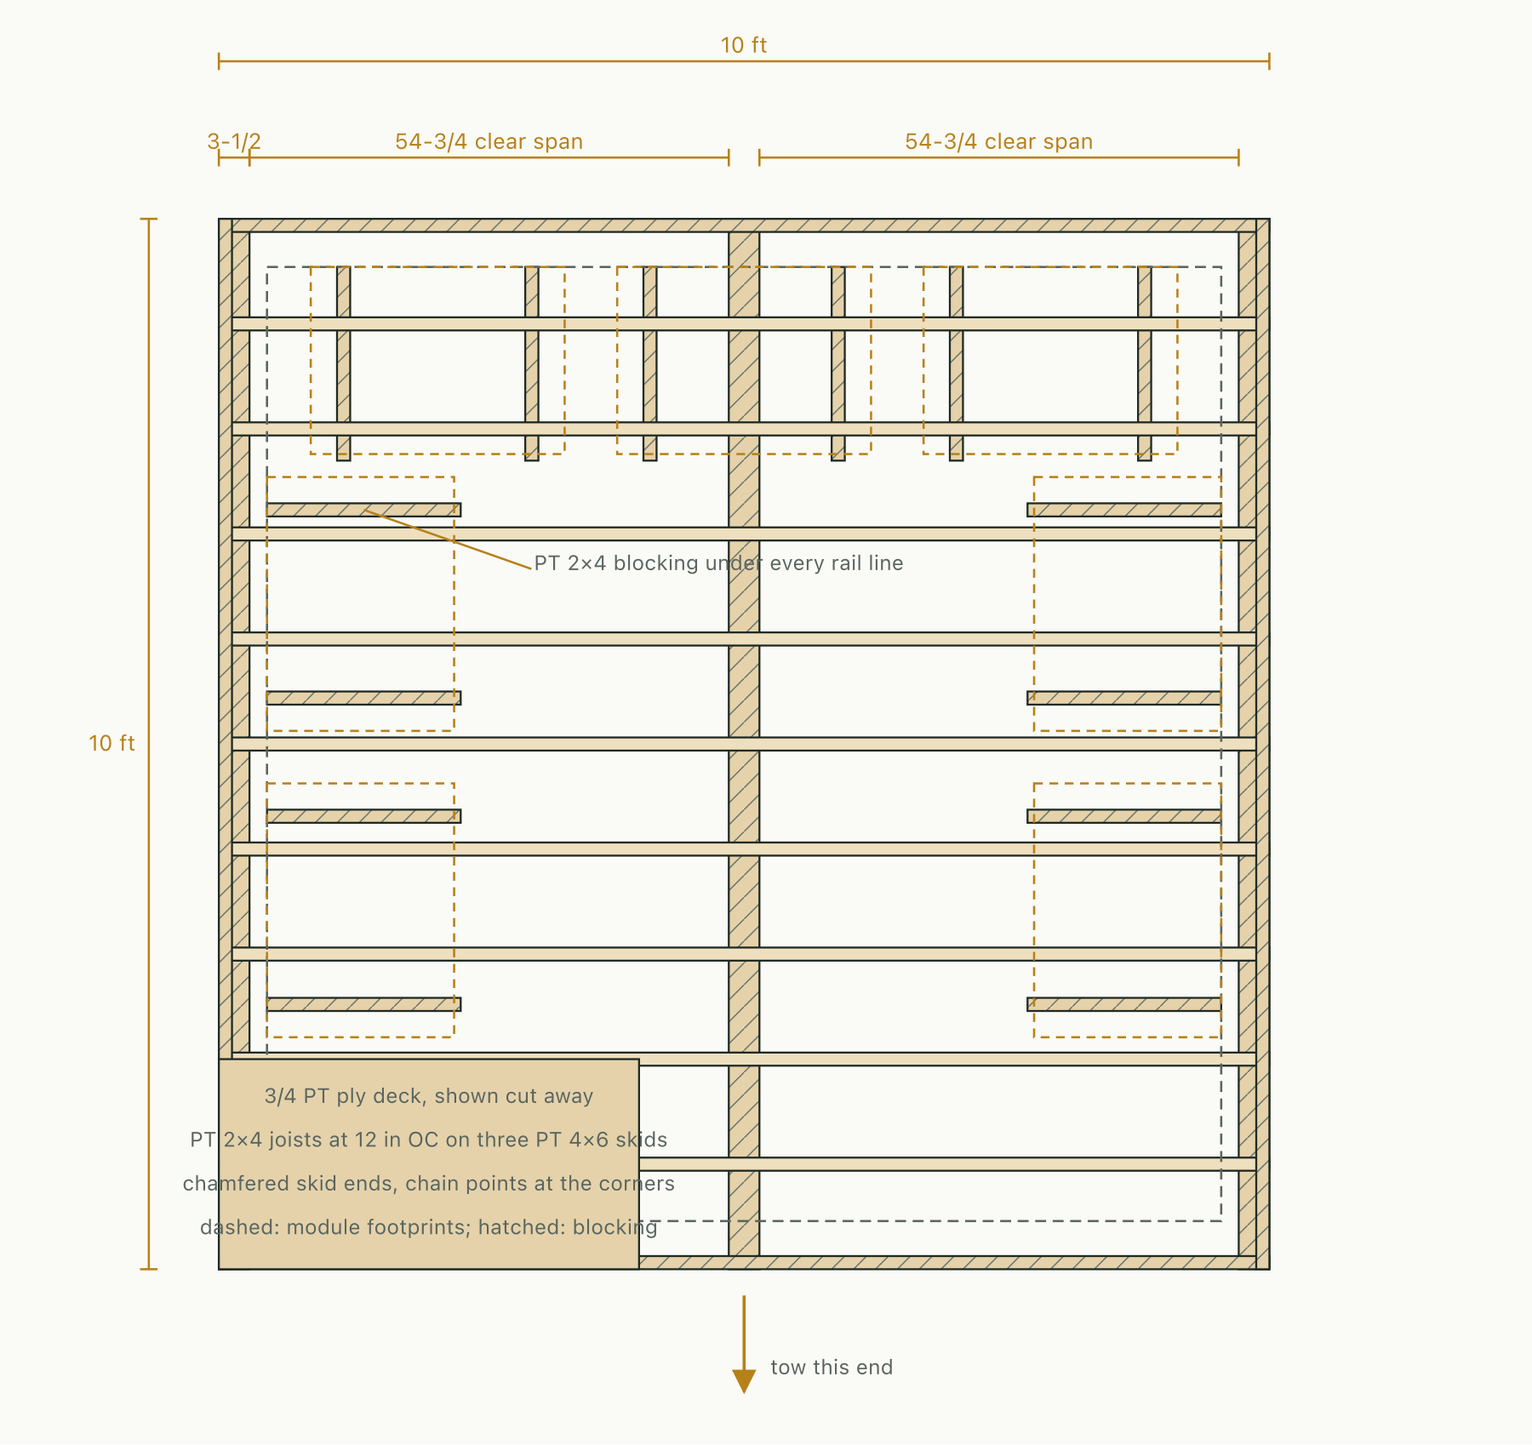
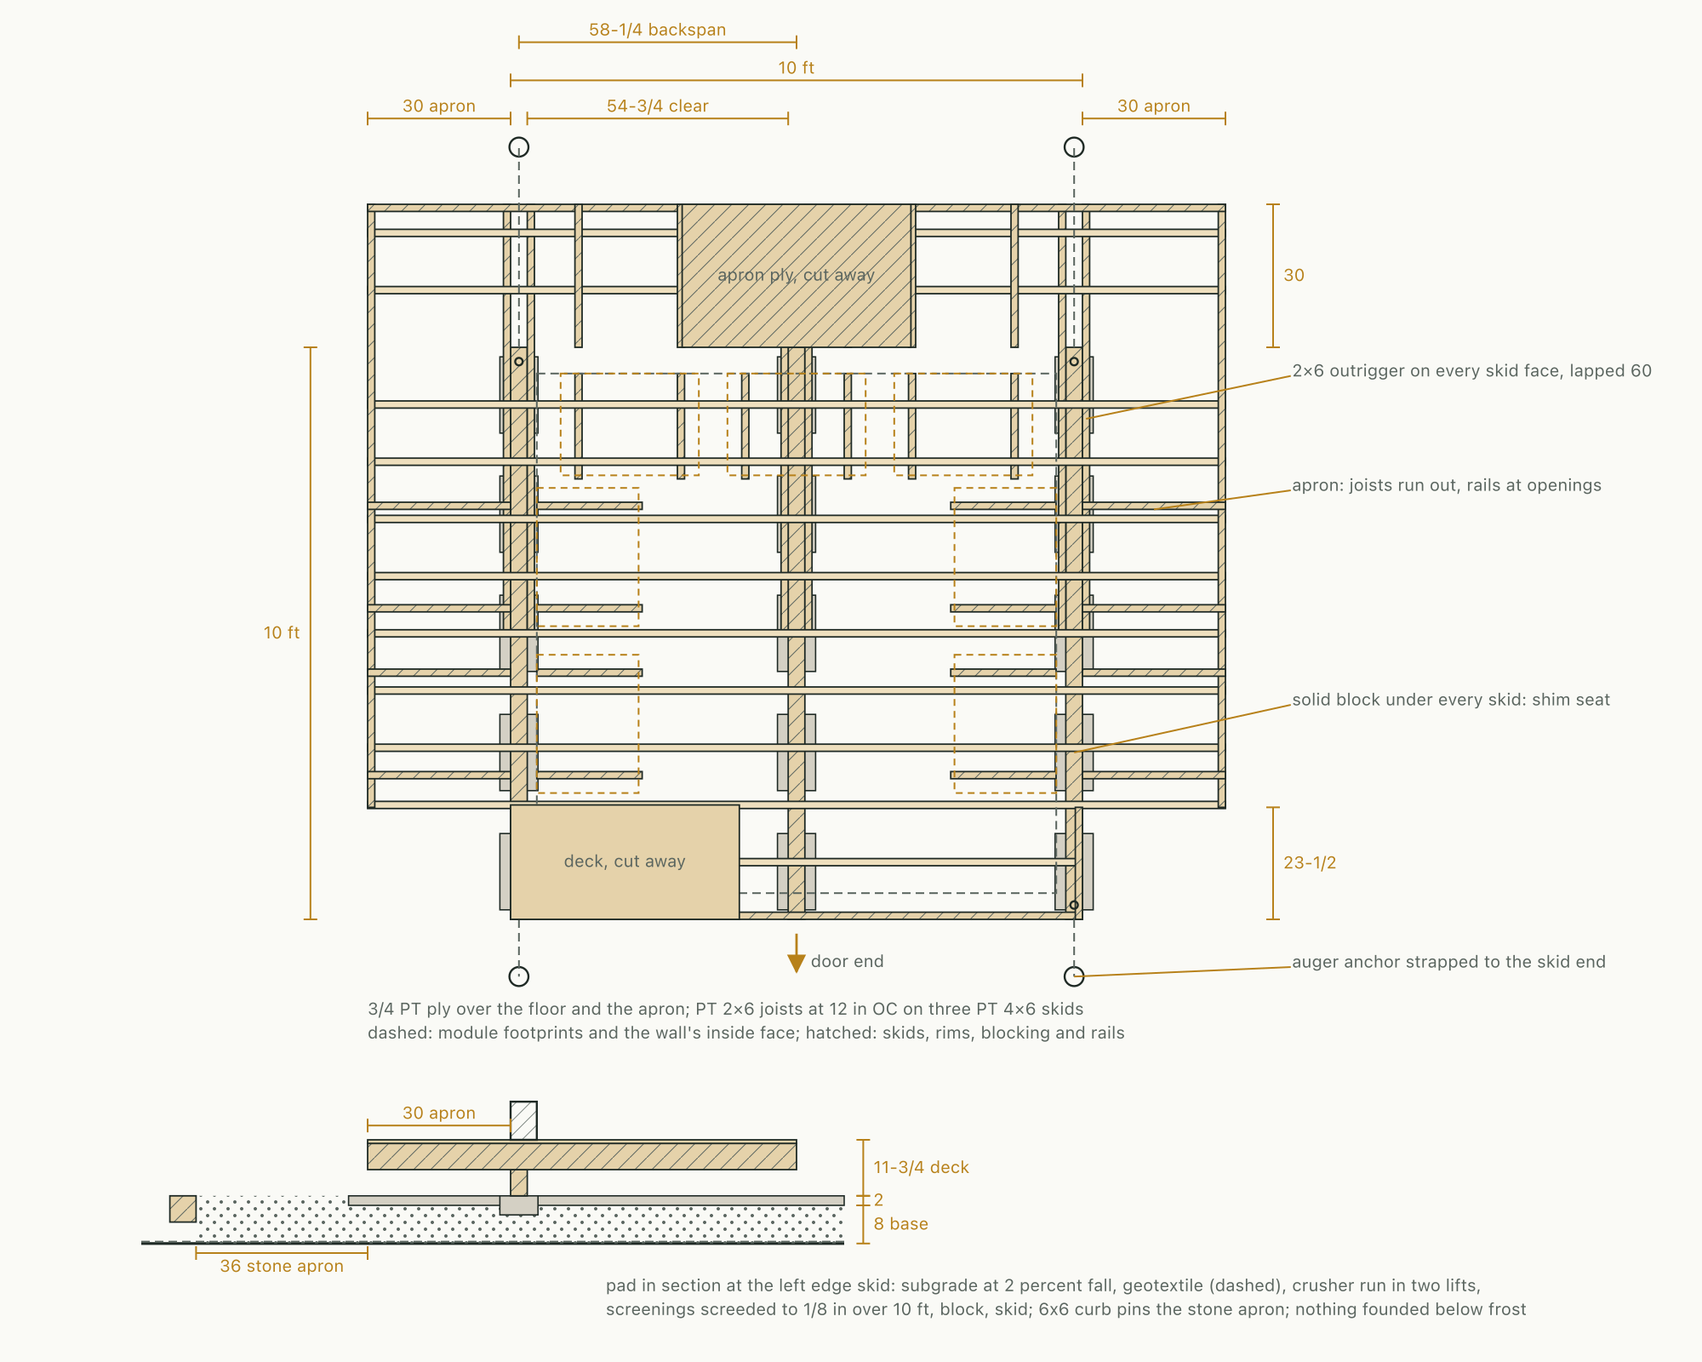
Revision 13, September 23, 2026: 20 sheets
Generated from the private source by publish.py.

Changed region(s): [[0.0933, 0.0, 0.9644, 0.9688], [0.9022, 0.5, 0.9333, 0.5312], [0.0622, 0.5, 0.0933, 0.5312]]

diff --git a/SHEETS.md b/SHEETS.md
@@ -6,19 +6,19 @@ Generated by build.py from beehut/sheets/; do not edit. Dimensions in inches, he
 
 ![Plan](png/01-plan.png)
 
-Skid-built 120 in square, 5-1/2 in walls, 109 in clear inside. Seven identical modules on a 35 in pitch: two at the rear of each side bench (the rear one ending at the back bench, 6 in between them) and three centred on the back wall, 6 in apart and 5 in from each corner. Each pulls out through a 30-1/2 in rough opening onto a 34-1/2 x 30 in pad; entrances at the rear edge of every face. A 21 in quiet bay at the front of each side bench sits over the 12 in intake, 4 in from the front corner. Door 32 in leaf in a 34 in opening, clerestory above it, 24 in cupola at the centre.
+Skid-built 120 in square, 5-1/2 in walls, 109 in clear inside. Seven identical modules on a 35 in pitch: two at the rear of each side bench (the rear one ending at the back bench, 6 in between them) and three centred on the back wall, 6 in apart and 5 in from each corner. Each pulls out through a 30-1/2 in rough opening onto the 30 in apron; entrances at the rear edge of every face. A 21 in quiet bay at the front of each side bench sits over the 12 in intake, 4 in from the front corner. Door 32 in leaf in a 34 in opening, 24 in glazed cupola over the centre of the aisle.
 
 ## 2. Section A-A
 
 ![Section A-A](png/02-section_aa.png)
 
-Across a side bench through a module, looking along the wall. The module (21-3/8 deep, 12-5/8 tall with its sled and double screen board) rides on two PT 2×4 rails with UHMW tops, 3-3/4 above the deck, and passes through the hatch cartridge in a 30-1/2 × 14-1/8 rough opening whose sill is 3 above the deck. The bench is a separate structure: a 1×2 ledger on the wall above the opening and a louvered 2×4 front rail carry lift-off ladder panels, 2-1/4 in clear over the board, bench top 20-1/8 above the deck. Pull the module 26-7/8 in onto the pad outside for an inspection; feeding is with the panel off, since no jar fits under it. Deck 9-3/4 above grade on PT 4×6 skids.
+Across a side bench through a module, looking along the wall. The module (21-3/8 deep, 12-5/8 tall with its sled and double screen board) rides on two PT 2×4 rails with UHMW tops, 3-3/4 above the deck, and passes through the hatch cartridge in a 30-1/2 × 14-1/8 rough opening whose sill is 3 above the deck. The bench is a separate structure: a 1×2 ledger on the wall above the opening and a louvered 2×4 front rail carry lift-off ladder panels, 2-1/4 in clear over the board, bench top 20-1/8 above the deck. Pull the module 26-7/8 in onto the apron outside for an inspection; feeding is with the panel off, since no jar fits under it. Deck 11-3/4 above grade on PT 4×6 skids.
 
 ## 3. Stack detail
 
 ![Stack detail](png/03-stack_detail.png)
 
-The top corner of a module at the room end, from Section A-A at large scale. The frame ear (11/16 × 3/8) sits on the rabbet ledge (3/8 wide) in the 1-1/2 box wall, leaving 3/8 in bee space between the top bars and the lower #8 screen. The double screen board is a 1×2 flat frame with #8 on both faces and 3/4 in air between: bees own the lower screen and nothing reaches the upper one. The bench panel clears the board by 2-1/4, room for the flap leaf and 1-1/2 in winter foam. In this cut across the bench you see one 1-1/2 in slat lengthwise on its two panel rails, the flat stringer under it, and the louvered 2×4 front rail.
+The top corner of a module at the room end, from Section A-A at large scale. The frame ear (11/16 × 3/8) sits on the rabbet ledge (3/8 wide) in the 1-1/2 box wall, leaving 3/8 in bee space between the top bars and the lower #8 screen. The double screen board is a 1×2 flat frame with #8 on both faces and 3/4 in air between: bees own the lower screen and nothing reaches the upper one. The bench panel clears the board by 2-1/4, room for 1 in winter foam under the stringer. In this cut across the bench you see one 1-1/2 in slat lengthwise on its two panel rails, the flat stringer under it, and the louvered 2×4 front rail.
 
 ## 4. Section B-B
 
@@ -36,31 +36,31 @@ Along the back wall, cut through the three back modules and seen from the room. 
 
 ![Pull-out](png/06-pull_out.png)
 
-Plan detail of one side module at home and pulled out. The 29 in box sits in a 30-1/2 in rough opening lined with a 1/2 in ply sleeve, 1/4 in clear each side, its face at the room end of the sleeve so the entrance sits in a 4-3/4 in porch. Two rails inside run from the wall face to a 3/4 in stop block, 3 in from each end of the box; the pad outside, 30 in out from the siding, has its own pair. Neither passes through the wall: the sled bridges the 5-1/2 in pocket. Travel 26-7/8 in puts the box clear of the siding.
+Plan detail of one side module at home and pulled out. The 29 in box sits in a 30-1/2 in rough opening lined with a 1/2 in ply sleeve, 1/4 in clear each side, its face at the room end of the sleeve so the entrance sits in a 4-3/4 in porch. Two rails inside run from the wall face to a 3/4 in stop block, 3 in from each end of the box; the apron outside, 30 in out from the siding, has its own pair. Neither passes through the wall: the sled bridges the 5-1/2 in pocket. Travel 26-7/8 in puts the box clear of the siding.
 
 ## 7. Side wall
 
 ![Side wall](png/07-side_wall.png)
 
-Left side wall from outside, back corner at the left. Two module openings, RO 30-1/2 × 14-1/8, sill 3 above the deck: the rear one centred 76 from the front exterior face (its box ends at the back bench), the front one 35 nearer the front, leaving the 21 in quiet bay. Intake vent 12 × 6, 4 from the front interior corner, sill 2 above the deck. Pads 34-1/2 wide at deck height under each opening.
+Left side wall from outside, back corner at the left. Two module openings, RO 30-1/2 × 14-1/8, sill 3 above the deck: the rear one centred 76 from the front exterior face (its box ends at the back bench), the front one 35 nearer the front, leaving the 21 in quiet bay. Intake vent 12 × 6, 4 from the front interior corner, sill 3 above the deck. The apron runs along the wall at deck height from 23-1/2 in behind the front face, rails under each opening.
 
 ## 8. Back wall
 
 ![Back wall](png/08-back_wall.png)
 
-Back wall from outside: three module openings, RO 30-1/2 × 14-1/8, centred on the wall at 35 pitch, so 6 between boxes and 5 from each box to the interior corner. Sill 3 above the deck, pads 34-1/2 wide at deck height under each. Intake vents are on the side walls.
+Back wall from outside: three module openings, RO 30-1/2 × 14-1/8, centred on the wall at 35 pitch, so 6 between boxes and 5 from each box to the interior corner. Sill 3 above the deck, the apron at deck height under all three. Intake vents are on the side walls.
 
 ## 9. Door wall
 
 ![Door wall](png/09-door_wall.png)
 
-Front wall from outside. Door RO 34 × 82-1/2 centred, 32 leaf inside it under a 1-1/2 flat head; two risers of 4-7/8 up to the deck. Clerestory band 104 wide (8 in returns) from 85-3/4 to 95-3/4 above the deck, three frosted awning sashes, under a doubled 2×10 header (9-1/4) directly below the double top plate. Cone bee escape at the right end.
+Front wall from outside, the only wall with no hive. Door RO 34 × 82-1/2 centred, 32 leaf inside 1 jambs under a 1-1/2 flat head and a doubled 2×6 header; two risers of 5-7/8 up to the deck with a handrail each side. No window: the glazed cupola over the aisle is the room's only daylight and where a stray bee leaves. The level soffit is 88 above the deck, 5-1/2 over the door.
 
-## 10. Skids and floor
+## 10. Skids, floor and apron
 
-![Skids and floor](png/10-skids_floor.png)
+![Skids, floor and apron](png/10-skids_floor.png)
 
-Three PT 4×6 skids on edge, 3-1/2 wide and 5-1/2 tall, run front to back: one at each edge and one centred. PT 2×4 joists at 12 in on centre run across them, clear span 54-3/4 between skids, with a PT 2×4 rim all round; 3/4 in PT plywood deck. PT 2×4 blocking under every plinth rail line: two per module, 22-1/8 long from the wall face, 3 in from each end of the box.
+Three PT 4×6 skids on edge, 3-1/2 wide and 5-1/2 tall, run front to back on a compacted stone pad (8 in of crusher run in two lifts, 2 in of screenings), each bedded on 5 solid blocks set flush in the screenings as shim seats. PT 2×6 joists at 12 in on centre run across the skids, clear span 54-3/4, and from 23-1/2 in behind the front face to the back they run on 30 in past the siding on both sides as the apron, backspan 58-1/4 to the centre skid. Across the back, 2×6 outriggers bolted to both faces of every skid and lapped 60 carry the same joists 30 out. 3/4 in PT ply over all of it: the apron is the floor continued, rides with the building through a frost cycle, and its rails, one pair under every opening at 3-3/4, are set to the cartridge gauge. Three joists under a module carry 210 lb of module and a 250 lb person at the tip at about 610 psi. PT 2×4 blocking under every inside rail line. Chain points at the four edge-skid ends, an auger anchor strapped to each 12 in beyond the end, unclipped only to move the building; a 36 in stone apron at grade beyond the deck apron is where the beekeeper stands.
 
 ## 11. Frame
 
@@ -72,7 +72,7 @@ Standard Langstroth deep, off the shelf: 19 in top bar, 9-1/8 deep, 17-5/8 outsi
 
 ![Hive floor](png/12-hive_floor.png)
 
-The module floor: a 1 in cavity formed by 1 in strips under the box walls on the 3/4 ply sled, #8 cloth stapled on top of the strips, so the floor is 1-1/8 (1 plus cloth and staples). A sticky board slides in through a slot in the face at the cavity, behind a flap. The slot entrance, 8 x 3/8, sits at the floor top at the rear edge under the 1 disc, 4 from the rear end. Two rails 3 from each end carry the sled to a 3/4 stop block; 1/2 bee space under the bottom bars.
+The module floor: a 1 in cavity formed by 1 in strips under the box walls on the 3/4 ply sled, #8 cloth stapled on top of the strips, so the floor is 1-1/8 (1 plus cloth and staples). A sticky board slides in through a slot in the face at the cavity, behind a cover. The slot entrance, 8 x 3/8, sits at the floor top at the rear edge under the 1 disc, 4 from the rear end. Two rails 3 from each end carry the sled to a 3/4 stop block; 1/2 bee space under the bottom bars.
 
 ## 13. Viewing port
 
@@ -80,26 +80,44 @@ The module floor: a 1 in cavity formed by 1 in strips under the box walls on the
 
 Section A-A through the one module with a port: a 16 × 7 acrylic pane let into the box's inner end wall, centred on the frame depth, and a hinged cedar shutter in the louvered bench front in line with it. A red LED strip in the dark cavity between the box end and the louvers lights the frame ends; the shutter stays closed unless a guest is looking. The pane centre is 10-11/16 above the deck: kneel, or a low stool.
 
-## 14. Bench panel and frame
+## 14. Bench panel
 
-![Bench panel and frame](png/14-bench_panel.png)
+![Bench panel](png/14-bench_panel.png)
 
-One lift-off ladder panel, 27 x 24 in: two 1x2 rails on edge running along the wall, 18 slats of 1x2 cedar on edge across the bench at 1-1/2 in pitch (3/4 in gaps, 3/8 in from each end), one 1x2 stringer flat under them at mid-span. The panel drops onto a 1x2 ledger on the wall above every opening and the 2x4 front rail, its top at 20-1/8 in; nothing rests on the module, which slides under it with 2-1/4 in clear over the board. 10 panels: three per side bench, four across the back.
+One lift-off ladder panel per module, 34-3/4 x 24 in on the 35 in module pitch, so every joint falls over the framing between openings and lifting a panel uncovers one board: two 1x2 rails on edge along the wall, 23 slats of 1x2 cedar on edge across the bench at 1-1/2 in pitch (3/4 in gaps, 1/2 in from each end), one 1x2 stringer flat under them at mid-span, screwed to every slat. A 14-3/4 in bay panel (10 slats) closes the front of each side bench; a fixed 2 in cedar strip each end of the back bench. The panel drops onto the 1x2 ledger on the wall above every opening and the 2x4 front rail, located by a dowel pin at each end, top at 20-1/8 in; nothing rests on the module, which slides under it with 2-1/4 in clear over the board. 7 module panels and 2 bay panels, clear vertical-grain cedar, each tested to 200 lb at the centre without visible set.
 
 ## 15. Double screen board
 
 ![Double screen board](png/15-double_screen_board.png)
 
-Double screen board, 29 x 21-3/8, one per module: a 1x2 flat frame 3/4 thick with a centre rib, #8 stainless on both faces, so the frame thickness is the air gap. Feeder port: a 1-1/2 hole in a 4 x 4 solid patch centred along the board, 5 from the room edge, with a captive plug when no jar is on. Four screws, 3 in from the corners.
+Double screen board, 29 x 21-3/8, one per module: a 1x2 flat frame 3/4 thick (1-1/2 wide) with a centre rib, #8 stainless on both faces, so the frame thickness is the air gap. Two ports, each a 1-1/2 hole in a 4 x 4 solid patch: the jar port centred along the board, 5 from the room edge, with a sliding cover that is closed unless a jar is on; the feeder port 4 from the follower end, over the frame feeder, for a funnel. Two cam latches hold the board to the box; the four screws, 3 along each end rail and 3/4 in from the edge, are the winter fixing.
 
 ## 16. Exploded assembly
 
 ![Exploded assembly](png/16-exploded_assembly.png)
 
-The building as units. Field units stack in order on the one below: skid base (9-3/4 to the deck), four wall panels (120 side walls through, 109 front and back between them, 108 tall) framed flat on that deck, a 4:12 roof kit rising 28 above the fascia, the 24 in cupola set whole. Shop units under 60 lb except the door, built while the lumber acclimates and fitted to gauges before any wall stands.
+The building as units. Field units stack in order on the one below: skid base and apron (11-3/4 to the deck), four wall panels (117-1/2 side walls through, 110-1/2 front and back between them, 96 tall) framed flat on that deck, a 4:12 roof kit rising 28 above the fascia, the 24 in cupola set whole. Shop units under 60 lb except the door, built while the lumber acclimates and fitted to gauges before any wall stands.
 
 ## 17. Hatch cartridge
 
 ![Hatch cartridge](png/17-hatch_cartridge.png)
 
-Section A-A at the wall, large scale. The cartridge is a 1/2 in plywood sleeve the depth of the wall (5-1/2), with the cedar trim frame outside (3/4 proud of the siding), the aluminium pan on its sill falling outward, brush seals at the room end filling the 1/4 in clearance, and the gravity flap: a 1/2 in plywood leaf on a piano hinge under the bench ledger. It slides into a bare 30-1/2 × 14-1/8 rough opening from outside and is screwed through the jambs; the sill sits 3 above the deck so the sleeve sill top is flush with the rail tops. There are no interior stops: the module pushes the flap up and it lies on the board; when the module leaves, the flap drops to the runner and the room stays bee-tight. Build eight: seven to fit and one kept as the gauge for framing the openings.
+Section A-A at the wall, large scale. The cartridge is a 1/2 in plywood sleeve the depth of the wall (5-1/2), with the cedar trim frame outside (3/4 proud of the siding, 2 wide, its inner edge bevelled 1/2 as the lead-in), a sloped cedar sill with a drip kerf on the sleeve sill, a foam gasket round the face where it meets the porch, and brush seals at the room end filling the 1/4 in clearance. It slides into a bare 30-1/2 × 14-1/8 rough opening from outside and is screwed through the jambs; the sill sits 3 above the deck so the sleeve sill top is flush with the rail tops, and the rails are set to it with the gauge after the cartridge is in. No flap and no stops: when a module is out, one loose 3/4 in blank on a handle (dashed), the size of the sleeve, stands in against the seals from outside and the room stays bee-tight. Build eight cartridges, seven to fit and one kept as the gauge, and one blank.
+
+## 18. Roof and cupola
+
+![Roof and cupola](png/18-roof_cupola.png)
+
+Section across the hut through the apex. 2×6 jack rafters at 24 in on 2×8 hips, 4:12, bearing on the double top plate at 96 with hurricane ties at every rafter and a strap across each corner, because a pyramid has no ceiling ties and the plates are its tension ring. Level soffit at 88, 24 in eave, 5 in gutter on every fascia. R-23 mineral wool fills the rafters and 3/4 in T&G closes the ceiling under them, so nothing over a sleeper's head is bare metal and a cold roof does not sweat on seven colonies in February. At the apex, 116 above the deck, the rafters are headed off round a 24 in square curb standing 6 in above the roof, flashed. On it the cupola: a 8 in band screened with #8 on all four sides carrying the damper, a 3/4 in ply leaf hinged in the throat on a cord to the room that closes to a 1/2 in crack, and the escape cone, a screen cone through the band with its small end outside; above that a 12 in band of frosted polycarbonate on all four sides, the room's only daylight, and its own cap rising 9 with 4 in of overhang. A bee in the room rises to the light and leaves by the cone.
+
+## 19. Site
+
+![Site](png/19-site.png)
+
+The site, door wall to the north-west so the back wall and its three entrances face south-east into the morning sun and the door is the far end from every entrance; ground rising gently behind, a windbreak 40 to 60 ft beyond the back wall. A 21 × 19-1/2 ft compacted stone pad (topsoil stripped, geotextile, 8 in crusher run in two lifts, 2 in screenings, PT 6×6 curb on the cut and downhill sides) carries the skids on solid blocks, the 30 in deck apron on three sides, a 36 in stone apron at grade beyond it for the beekeeper, and a 48 in approach at the door. Four auger anchors at the edge-skid ends. Gutters on every eave, downspouts at the front corners into a buried pipe to daylight away from the flight zones. A 15 ft flight zone kept clear behind and beside the hut with a 6 ft screen at its edge; the path arrives at the door only, curving in from the front-right so the building is first seen corner-on; a low hedge along each flank keeps guests off the side-wall flight lines. Still water in a stone basin with pebbles 20 ft off the front-left corner, in view from the path and off it. Solar panel on the south-east slope. On a slope, cut a level bench, never fill; French drain uphill. Re-level in April yearly: the door closes and a module runs to its stop on every wall.
+
+## 20. Hive wall from inside
+
+![Hive wall from inside](png/20-hive_wall_inside.png)
+
+The back wall from the aisle: what a guest sees. The louvered 2×4 front, 18-5/8 tall, the slat ends of the three module panels and the bench top at 20-1/8, a fixed 2 in cedar strip at each end; cedar T&G to 48 in, pine above to the plates at 96; the ceiling rising on the hips to the glazed cupola over the aisle. Each hive's name engraved small on the wall 30 in above the deck over its hatch, so a guest on the bench can read which colony is under them; a hand bell for the host hung at the centre of the wall at 36 in, the one object at the end of the line from the door. Nothing else on the wall: no shelf, no readout, no light. The side walls are the same, two hatches each; the viewing port with its shutter is in the right-hand front module's louvers.

diff --git a/README.md b/README.md
@@ -1,10 +1,10 @@
 # Bee hut
 
-A 10 × 10 ft cedar-lined, pine-framed hut on pressure-treated skids, with horseshoe benches over seven identical hive modules on Langstroth deep frames. Every module rolls out through its wall and opens from inside. A double screen board is the only thing between a guest and the bees, and the bench above it is half open air.
+A 10 × 10 ft pine-framed hut on pressure-treated skids, cedar where a hand or a foot touches it, with horseshoe benches over seven identical hive modules on Langstroth deep frames. Every module rolls out through its wall onto an apron and opens from inside. A double screen board is the only thing between a guest and the bees, and the bench above it is half open air.
 
 ![Plan](png/01-plan.png)
 
-Revision 12, September 20, 2026. 17 sheets: [the whole set, with captions](SHEETS.md).
+Revision 13, September 23, 2026. 20 sheets: [the whole set, with captions](SHEETS.md).
 
 The drawings are generated from a dimension set and rebuilt whenever a number changes, so
 every sheet agrees with every other. Dimensions are in inches; heights inside are above the deck.
